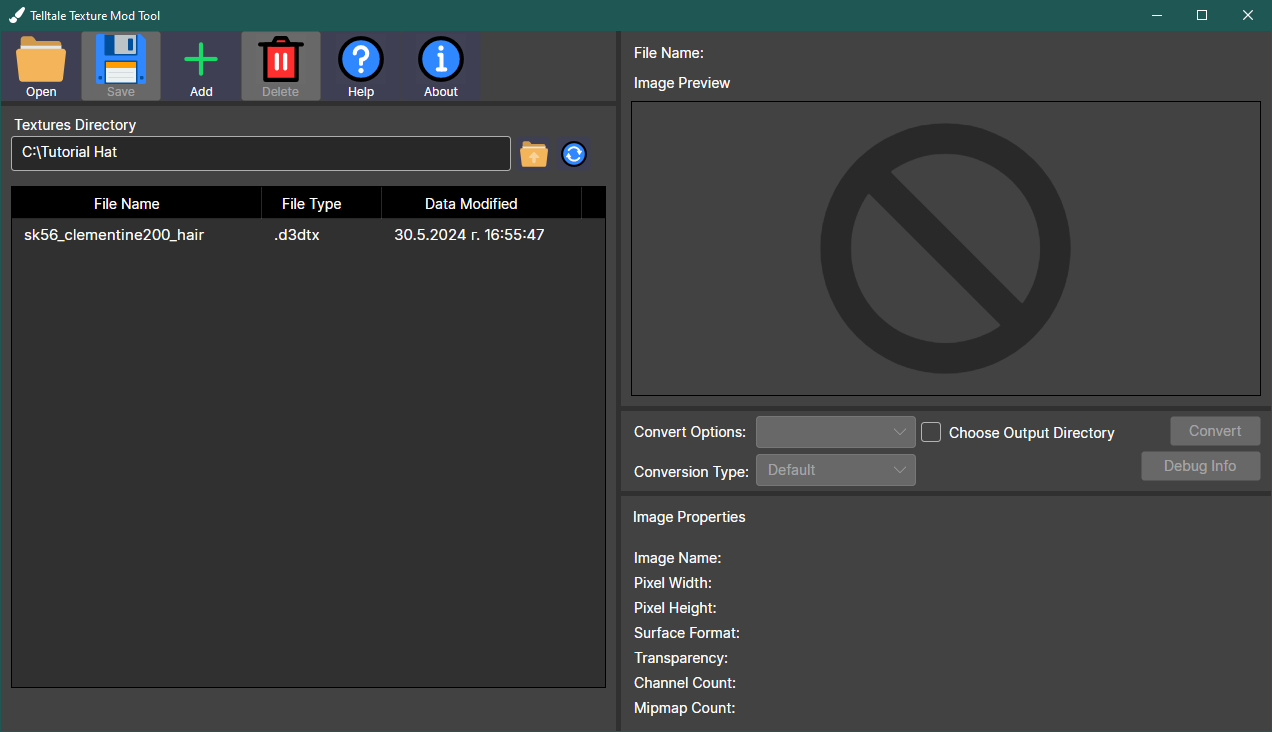
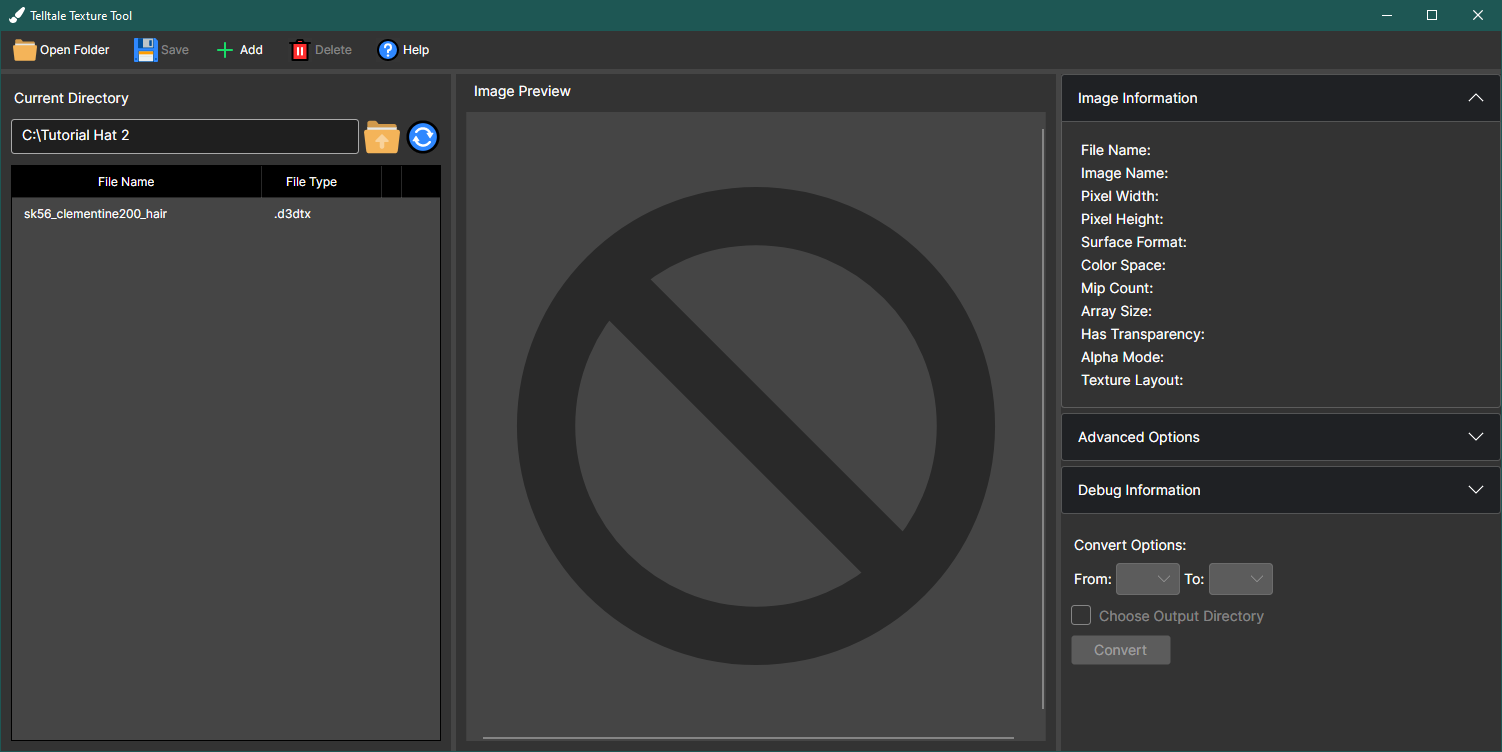
Update documentation

diff --git a/Docs/tutorial_part3/tutorial_part_3.md b/Docs/tutorial_part3/tutorial_part_3.md
@@ -1,39 +1,44 @@
-## [Home](/wiki/home.md)
+## [Home](/Docs/home.md)
 
-# How to edit using Paint.NET and how to convert back to D3DTX
+# How to edit using Paint.NET and convert back to D3DTX
 
-#### Welcome to the third part of the tutorial on how to make a texture mod for Telltale's games. In this section we focus on how to use Paint.NET and the Telltale Texture Mod Tool! In this tutorial, we will try to mod Clementine's Season 2 hat in The Walking Dead: The Telltale Definitive Series.
-#### [Make sure you read the application guide before we begin!](/wiki/application_guide.md)
-#### [Make sure you read the prelude before we begin!](/wiki/articles/tutorial_prelude.md)
+#### Welcome to the third part of the tutorial on how to make a texture mod for Telltale's games. In this section we focus on how to use Paint.NET and the Telltale Texture Tool! In this tutorial, we will try to mod Clementine's Season 2 hat in The Walking Dead: The Telltale Definitive Series.
 
-#### We use **Paint.NET and Telltale Texture Mod Tool** for this part of the tutorial, so make sure you have them downloaded and installed.
+> [!IMPORTANT]
+> Make sure you have read the [application guide](/Docs/application_guide.md)!
+> 
+> Make sure you have read the [prelude](/Docs/articles/tutorial_prelude.md)!
+> We use `Paint.NET` and `Telltale Texture Tool v2.5.0` for this part of the tutorial, so make sure you have them downloaded and installed.
 ---
 
-## Step 1/4 - Editing the DDS 
+## Step 1/4 - Editing the outputted texture
 
-Open the file in Paint.NET or the editor you prefer to work with.
+Open your converted file in Paint.NET or another editor by your choice.
 
 Edit it however you like, the freedom is yours. In my case, I replaced the 'D' with an oddly suspicious astronaut.
 
-If you try to open it with GIMP or Photoshop, it will ask you if you want to load the mipmaps or not. I usually recommend **not** doing that, since:
-- You will generate new ones.
-- It will add a lot of layers in your editor, which you do not need.
+If you try to open `DDS` or `TGA` with mips, `GIMP` and `Photoshop` will ask you if you want to load them or not. I usually recommend **not** doing that, because, you will generate new ones.
 
-![p3_1](/wiki/tutorial_part3/p3_1.png)
+![p3_1](/Docs/tutorial_part3/p3_1.png)
 
 ---
 
-## Step 2/4 - Saving the DDS
+## Step 2/4 - Saving the new texture
 
-On Paint.NET go to **File** -> **Save As** -> Select **Direct Draw Surface (DDS)** option from below.
-Try to save it in the same directory with its **JSON**.
+On Paint.NET go to `File` -> `Save As` and choose your preferred file type. 
 
-Now comes the fun part - in every single DDS editor a similar window will appear. The most important options are the surface format and whether or not you should generate mipmaps.
+For `PNG`, the options do not matter, however you will have to enable one option from the Telltale Texture Tool.
 
+For `DDS`:
+
+A window with advanced options will appear. The most important options are the surface format and the mip generation. You can select the surface format by your choice with one caveat: or
+The mip generation depends on if the original texture had them or not.
+
+Save the file the same directory where you store the `JSON` files.
 
 > For surface format you have 2 options: 
 > - Save it as the same one displayed on your image properties. 
-> - Use this [wiki](/wiki/articles/surfaces.md) to determine which option to choose. Changing surface formats **is possible** with the latest converter.
+> - Use this [wiki](/Docs/articles/surfaces.md) to determine which option to choose. Changing surface formats **is possible** with the latest converter.
 
 > Warning: If the original D3DTX had more than 1 mipmap, **select** the **Generate Mip Maps** option. Do not worry if the mipmaps are less or more than the original, that's **OK**.
 
@@ -41,7 +46,7 @@ Now comes the fun part - in every single DDS editor a similar window will appear
 
 In this case I will choose **BC1 (Linear, DXT1)**, also known as simply **BC1** or **DXT1**, for surface format and check **Generate Mip Maps** to...generate mipmaps.
 
-![p3_2](/wiki/tutorial_part3/p3_2.png)
+![p3_2](/Docs/tutorial_part3/p3_2.png)
 
 ---
 ## Step 3/4 - Converting the modified DDS into D3DTX
@@ -52,12 +57,12 @@ In this case I will choose **BC1 (Linear, DXT1)**, also known as simply **BC1** 
 
 Let's go back to the Telltale Texture Mod Tool and reselect the DDS. 
 
-![p3_3](/wiki/tutorial_part3/p3_3.png)
+![p3_3](/Docs/tutorial_part3/p3_3.png)
 
 ##
 Cool, it looks like the **DDS** was saved correctly. Now select **d3dtx** from the **Convert Options** and convert. Let's see the **D3DTX**.
 ###
-![p3_4](/wiki/tutorial_part3/p3_4.png)
+![p3_4](/Docs/tutorial_part3/p3_4.png)
 
 ###
 Perfect! It looks like it was saved correctly! Let's put it in the game!
@@ -67,19 +72,19 @@ Perfect! It looks like it was saved correctly! Let's put it in the game!
 
 Copy the **modified D3DTX** file and put it inside the game's directory. 
 > Note: The game will prioritize loading the new files rather than the ones in the game archives. 
-> Optional: If you want to put the texture inside a TTARCH, check out this somewhat-outdated [wiki](/wiki/articles/embed_ttarch.md).
+> Optional: If you want to put the texture inside a TTARCH, check out this somewhat-outdated [wiki](/Docs/articles/embed_ttarch.md).
 
 It should look something like this.
 
-![p3_5](/wiki/tutorial_part3/p3_5.png)
+![p3_5](/Docs/tutorial_part3/p3_5.png)
 
 # Let's test it!
 
-[<img src="/wiki/tutorial_part3/ingame_sh1.png" width=800>](/wiki/tutorial_part3/ingame_sh1.png) [<img src="/wiki/tutorial_part3/ingame_sh2.png" width=800>](/wiki/tutorial_part3/ingame_sh2.png)
-[<img src="/wiki/tutorial_part3/ingame_sh3.png" width=800>](/wiki/tutorial_part3/ingame_sh3.png)
+[<img src="/wiki/tutorial_part3/ingame_sh1.png" width=800>](/Docs/tutorial_part3/ingame_sh1.png) [<img src="/wiki/tutorial_part3/ingame_sh2.png" width=800>](/Docs/tutorial_part3/ingame_sh2.png)
+[<img src="/wiki/tutorial_part3/ingame_sh3.png" width=800>](/Docs/tutorial_part3/ingame_sh3.png)
 
 It works! You may notice that the 'D' outline is still present on the hat. That is because there is another texture called **sk56_clementine200_hair_detail.d3dtx** containing that outline. If you want to get rid of the 'D', you have to edit that texture as well.
-> ##### Read [here](/wiki/articles/textures.md#navigation) about all texture files.
+> ##### Read [here](/Docs/articles/textures.md#navigation) about all texture files.
 
 ### That's it! If you encounter any issues either report them by or read this page about troubleshooting, which utilizes Telltale Inspector. 
 # Happy Modding!
@@ -89,7 +94,7 @@ It works! You may notice that the 'D' outline is still present on the hat. That 
 
 | Original Detail Texture             |  Edited Detail Texture
 :-------------------------:|:-------------------------:
-![fr1](/wiki/tutorial_part3/final_result1.png) |  ![fr2](/wiki/tutorial_part3/final_result2.png)
+![fr1](/Docs/tutorial_part3/final_result1.png) | ![fr2](/Docs/tutorial_part3/final_result2.png)
 
 ### Final result:
-[<img src="/wiki/tutorial_part3/final_result3.png" width=800>](/wiki/tutorial_part3/final_result3.png) [<img src="/wiki/tutorial_part3/final_result4.png" width=800>](/wiki/tutorial_part3/final_result4.png)
+[<img src="/Docs/tutorial_part3/final_result3.png" width=800>](/Docs/tutorial_part3/final_result3.png) [<img src="/Docs/tutorial_part3/final_result4.png" width=800>](/Docs/tutorial_part3/final_result4.png)

diff --git a/Docs/tutorial_part2/tutorial_part_2.md b/Docs/tutorial_part2/tutorial_part_2.md
@@ -1,65 +1,74 @@
-## [Home](/wiki/home.md)
+## [Home](/Docs/home.md)
 
-# How to use Telltale Texture Mod Tool
+# How to use the Telltale Texture Tool
 
 #### Welcome to the second part of the tutorial on how to make a texture mod for Telltale's games. In this section we focus on how to use the Telltale Texture Mod Tool! In this tutorial, we will try to mod Clementine's Season 2 hat in The Walking Dead: The Telltale Definitive Series.
-#### [Make sure you read the application guide before we begin!](/wiki/application_guide/application_guide.md)
-#### [Make sure you read the prelude before we begin!](/wiki/articles/tutorial_prelude.md)
 
-#### We use **Telltale Texture Mod Tool** for this part of the tutorial, so make sure to download and extract it.
+> [!IMPORTANT]
+> Make sure you have read the [application guide](/Docs/application_guide.md)!
+> 
+> Make sure you have read the [prelude](/Docs/articles/tutorial_prelude.md)!
+> 
+> We use `Telltale Texture Tool v2.5.0` for this part of the tutorial, so make sure to download and extract it.
 ---
-## Step 1/4 - Launching Telltale Texture Mod Tool
-Run the **Telltale_Texture_Mod_Tool.exe**. It should look like this:
-![p2_1](/wiki/tutorial_part2/p2_1.png)
+## Step 1/4 - Launching Telltale Texture Tool
+Run `TelltaleTextureTool.exe`. It should look like this:
+![p2_1](/Docs/tutorial_part2/p2_1.png)
 
 ---
 ## Step 2/4 - Opening your Texture Folder
-Click on **Open**, it will open a folder browser.
-Select the folder where you extracted your **D3DTX** textures and click on **Select Folder**.
+When you click on `Open`, a folder browser will appear.
+Select the folder where you extracted your `D3DTX` textures and click on `Select Folder`.
 
-In my case when I open the folder, it will look like this. If not, make sure that you have selected the right folder.
-![p2_2](/wiki/tutorial_part2/p2_2.png)
-
-> Ignore that the "Convert Options" combobox showing "d3dtx -> dds". It is a minor GUI bug, the option only shows when you select directories only.
----
-## Step 3/4 - Converting textures to DDS
-
-Once you select your folder, the **File Browser** will be populated with your **D3DTX** files. Selecting them will show you are preview on the right side of the app. 
-Now, let's convert them to **DDS**.
-Stick to the **Default** option if the game is from **2013** and onwards. If not, you have to choose some of the **Legacy Versions**. More information [below](/wiki/tutorial_part2/tutorial_part_2.md#legacy-versions).
-
-> Tip: If you want to save the **DDS** files somewhere else, click on the **Choose Output Directory** checkbox.
-> Tip: If you want to convert a whole folder of textures, select the parent directory of that folder, select it and it should have more convert options (for e.g. dds -> d3dtx).
-
-For now, we will only click on **Convert**. 
-> Warning: Once the application finishes converting the **D3DTX** textures, it will generate a **DDS** file and a **JSON** file. **DO NOT DELETE THE JSON FILE!**
-
-![p2_3](/wiki/tutorial_part2/p2_3.png)
+In my case when I open the folder, it will look like this. If not, make sure that you have selected the correct folder.
+![p2_2](/Docs/tutorial_part2/p2_2.png)
 
 ---
-## Step 4/4 - Verifying the DDS texture
+## Step 3/4 - Converting textures to a regular format
 
-Make sure you the image properties between the **D3DTX** and **DDS** file match **(Width, Height, Surface Format, Mipmaps)**.
-And you are done! You can now start editing your **DDS** file!
-> Tip: You can right click on the file and choose **Open File Explorer** from the context menu. It will open the folder where you have stored the file.
+Once you select your folder, the `File Browser` will be populated with your `D3DTX` files. You can preview them by selecting them.
 
-> Note: Remember what the image properties show you. It will be important for Part 3.
+Now, let's convert them to our desired format. Select the format from the `To` combobox. I recommend working with either `DDS`, `PNG` or `TGA` file types.
 
-![p2_4](/wiki/tutorial_part2/p2_4.png)
+Click on `Convert`. 
 
-## Legacy Versions
-The conversion process works in similar ways, but this time you have to "**guess**" the correct Legacy Version. If you **do not**, an error will probably appear OR the texture will look corrupted.
+> [!TIP]
+> If you want to save your converted files somewhere else, click on the `Choose Output Directory` checkbox.
 
-Currently verified supported titles:
-| Legacy Version | Title |
-| --- | --- |
-| Legacy Version 1 | The Walking Dead (2012)
-| Legacy Version 2 | Jurassic Park (2011)
-| Legacy Version 3 | Back to the Future: The Game (2010)
+> [!TIP]
+> If you want to bulk convert (convert all files in a folder), select the folder (their file types are empty), then select the `From` and `To` options. A message will appear if it is successful or not.
 
-More can come in the future!
+> [!WARNING]
+> Once the application finishes converting the `D3DTX` textures, it will generate a `JSON` file. **DO NOT DELETE IT!** It contains important information.
 
-![p2_l1](/wiki/tutorial_part2/p2_l1.png)
+![p2_3](/Docs/tutorial_part2/p2_3.png)
 
+---
+## Step 4/4 - Verifying the outputted texture
 
-# Congratulations, you can now convert D3DTX textures and edit their DDS variants! [You can now go to Part 3!](/wiki/tutorial_part3/tutorial_part_3.md)
+Click on the outputted image. If you used the `DDS` option, make sure the image properties between the `D3DTX` and `DDS` files match, like `Width`, `Height`, `Surface Format` and `Mips`.
+
+You are done! You can now start editing your texture file!
+
+> [!TIP]
+> You can right click on the file and choose `Open File Explorer` from the context menu. It will open the folder where you have stored the file.
+
+> [!NOTE]
+> Remember what the image properties show you. It will be important for Part 3.
+
+### DDS
+![p2_4](/Docs/tutorial_part2/p2_4.png)
+
+### PNG
+![p2_5](/Docs/tutorial_part2/p2_5.png)
+
+> [!IMPORTANT]
+> For older games:
+>
+> The conversion process works in similar ways, but this time you two options:
+> 1. The `Default` option in the combobox means that the converter will try to recognize the format. This option is reliable, but very slow. The `Legacy Console` checkbox will be checked if the texture is from an older console game.
+> 2. You have to select the right game in the `Advanced Options`, otherwise you will be greeted by a lot of errors. 
+
+![p2_l1](/Docs/tutorial_part2/p2_l1.png)
+
+# Congratulations, you can now convert D3DTX textures and edit them! [You can now go to Part 3!](/Docs/tutorial_part3/tutorial_part_3.md)

diff --git a/Docs/tutorial_part1/tutorial_part_1.md b/Docs/tutorial_part1/tutorial_part_1.md
@@ -1,64 +1,68 @@
-## [Home](/wiki/home.md)
+## [Home](/Docs/home.md)
 
 # How to find and extract textures 
 
 #### Welcome to the first part of the tutorial on how to make a texture mod for Telltale's games. In this section we focus on how to find and extract the textures needed for your mods! In this tutorial, we will try to mod Clementine's Season 2 hat in The Walking Dead: The Telltale Definitive Series.
-#### [Make sure you read the prelude before we begin!](/wiki/articles/tutorial_prelude.md)
+
+> [!IMPORTANT]
+> Make sure you read the [prelude](/Docs/articles/tutorial_prelude.md) before we begin! 
 
 #### We use **Telltale Explorer** for this part of the tutorial, so make sure to download it.
 ---
 
 ### Step 1/4 - Locating the textures
 Telltale store their files in **TTARCH/TTARCH2** files also know as **Telltale archives**, which we can open with Telltale Explorer. Now the question remains - which? Luckily, Telltale has good naming conventions. 
-Check [this](/wiki/articles/textures.md#where-are-the-textures-stored) article to get to know what each archive contains. For now, let's focus on those which finish with **txmesh**.
+Check [this](/Docs/articles/textures.md#where-are-the-textures-stored) article to get to know what each archive contains. For now, let's focus on those which finish with **txmesh**.
 
 Here is an example of how TWD:TTDS directory looks like. 
-![p1_1](/wiki/tutorial_part1/p1_1.png)
+![p1_1](/Docs/tutorial_part1/p1_1.png)
 
 ----
 
 ## Step 2/4 Opening the archives
 After you somewhat know where to search, run **TelltaleExplorer.exe**.
 It should look like this:
-![p1_2](/wiki/tutorial_part1//p1_2.png)
+![p1_2](/Docs/tutorial_part1//p1_2.png)
 
 Click on **Open** -> **Open File**  at the top left corner and find the game's directory where the archives are stored.
 Select your desired archive and open it. In this example we are opening **WDC_pc_WalkingDead201_txmesh.ttarch2**.
 
-![p1_3](/wiki/tutorial_part1/p1_3.png)
+![p1_3](/Docs/tutorial_part1/p1_3.png)
 
 Click on **Open** or **double click**.
 
 ---
 ## Step 3/4 - Finding the right textures
 After you opened the archive, it should look like this. 
-> Check [this](/wiki/articles/textures.md#how-to-recognize-the-type-of-the-texture-and-where-its-used) section to know how to recognize the files. 
+> Check [this](/Docs/articles/textures.md#how-to-recognize-the-type-of-the-texture-and-where-its-used) section to know how to recognize the files. 
 
-![p1_4](/wiki/tutorial_part1/p1_4.png)
+![p1_4](/Docs/tutorial_part1/p1_4.png)
 
  For this tutorial I am extracting **sk56_clementine200_hair.d3dtx**. 
  It stands for "skeleton height (56), Clementine's model, her hair texture with a hat.
-![p1_5](/wiki/tutorial_part1/p1_5.png)
+
+![p1_5](/Docs/tutorial_part1/p1_5.png)
 
 ---
 ## Step 4/4 - Extracting the textures
 
 When you select the texture you want to edit, click on **Save** -> **Save as Raw**. 
 Choose a folder on your preference (it is a good idea to be empty) and save it.
-> Tip: Don't want to see **.d3dmesh** files? The **View** button acts like a filter. 
+
+> [!TIP]
+> Don't want to see **.d3dmesh** files? The **View** button acts like a filter. 
+
 Click **View** and choose **.d3dtx**.
 
-> Tip: Want to save all files? 
+> [!TIP]
+> Want to save all files? 
 > Clicking on Save All Files will give you some options.
 > - **Save all (raw dump)** - Save all files from the archive.
 > - **Save all visible files (raw dump)** - Like Save all (raw dump), but with an applied filter.
 
-> Tip: Want to find a specific texture? 
-Use the search option in the top right corner. 
-    >> Note: it doesn't work with filters.
+> [!TIP]
+> Want to find a specific texture?  Use the search option in the top right corner. 
 
-![p1_6](/wiki/tutorial_part1/p1_6.png)
+![p1_6](/Docs/tutorial_part1/p1_6.png)
 
-# Congratulations, you can now locate and extract the right textures! [You can now go to Part 2!](/wiki/tutorial_part2/tutorial_part_2.md)
-
-
+# Congratulations, you can now locate and extract the right textures! [You can now go to Part 2!](/Docs/tutorial_part2/tutorial_part_2.md)
